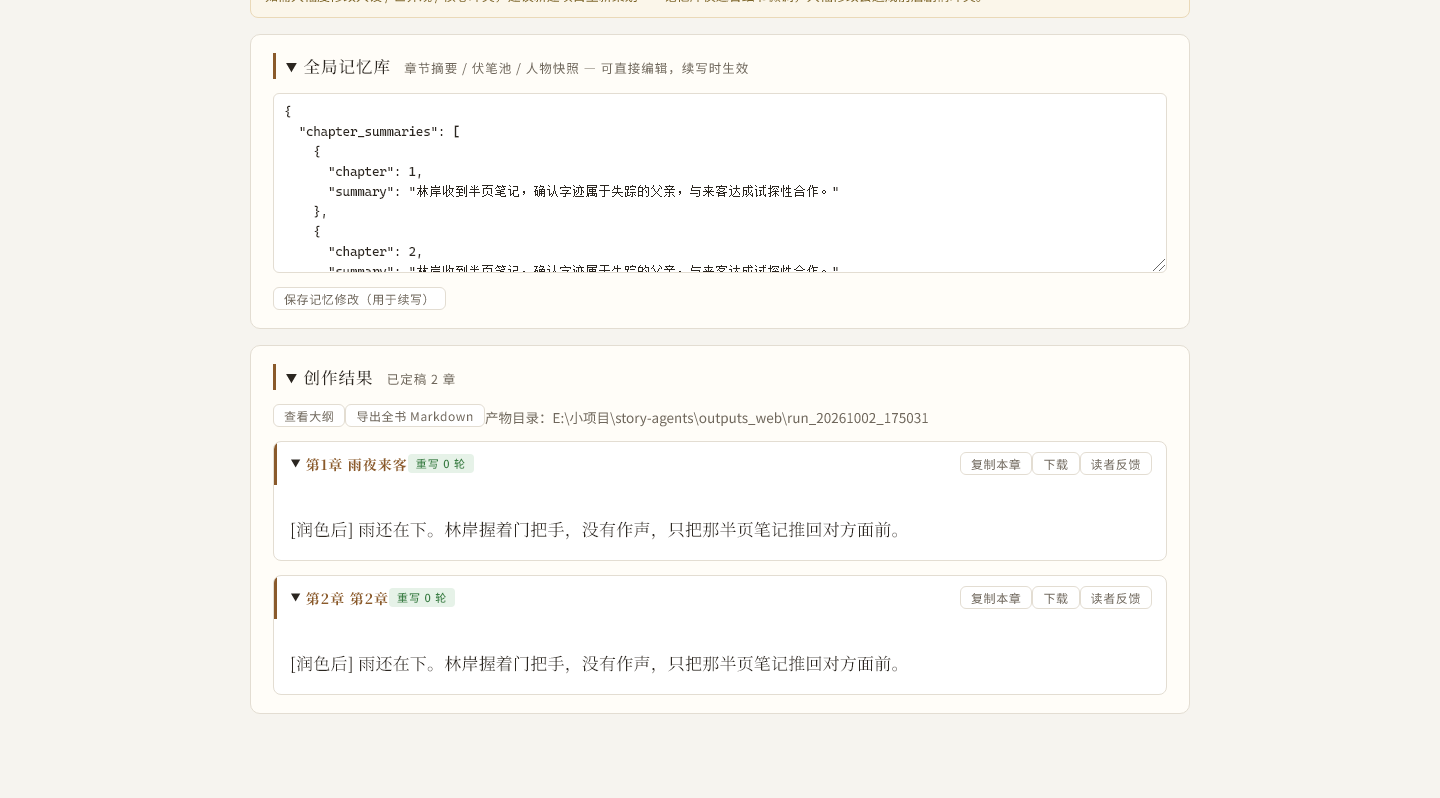
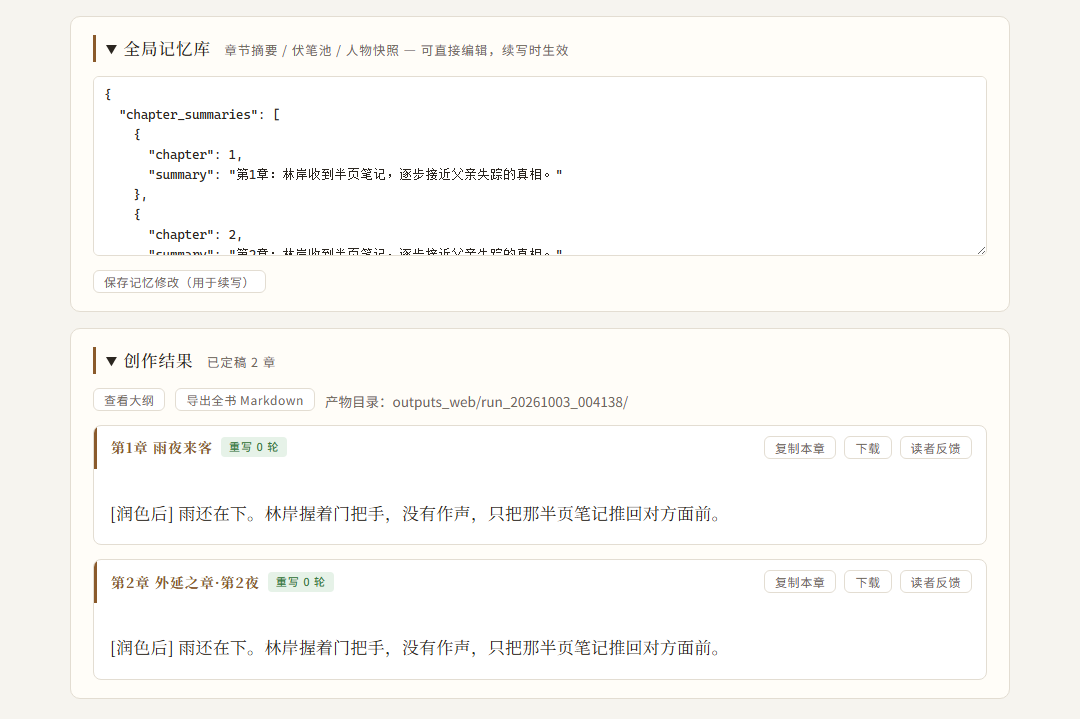
fix(web): 产物目录不再向下发绝对路径，并重拍三张界面截图
发布前审计发现 `docs/images/ui-result.png` 把界面上那行
「产物目录：E:/<作者目录>/outputs_web/run_...」原样拍了进去 —— 盘符与 Windows
用户名跟着一起公开了。文本搜索扫不出来（它是像素），是逐张看图才发现的。

- `web/server.py`：新增 `_display_dir()`，下发给前端的 `out_dir` 改为「相对项目根」
  的路径（磁盘上仍用绝对路径，日志与落盘不受影响）。不在项目内、或跨盘符时
  只回最后一级，避免外泄本机目录结构。
- `tests/test_display_dir.py`：6 项，含一个"总闸"用例——真实输入域下
  展示串不得含盘符与绝对前缀。
- `docs/images/`：三张截图用 CDP 重拍。面板默认折叠，`--screenshot` 点不了元素，
  只能走 DevTools 协议；顺带把整页长图从 416 KB 压到 178 KB。
- `README.md`：测试数同步、补测试表一行、补 `start.bat` 的解释器查找顺序说明
  （它优先找的是作者本机目录，外部用户走 PATH 兜底那条分支）。

236 项通过（原 230 + 新增 6）。

diff --git a/tests/test_display_dir.py b/tests/test_display_dir.py
@@ -1,0 +1,68 @@
+"""产物目录的展示路径：不许把盘符与 Windows 用户名下发到前端。
+
+回归背景：README 里的界面截图曾经直接拍到界面上那行
+「产物目录：E:\\<作者目录>\\outputs_web\\run_20261002_175031」——
+绝对路径含盘符与用户名，而这一行恰恰最容易出现在截图、issue 和文档里。
+现在服务端下发给前端的统一是「相对项目根」的路径，磁盘上仍用绝对路径。
+"""
+import os
+import sys
+
+import pytest
+
+sys.path.insert(0, os.path.dirname(os.path.dirname(os.path.abspath(__file__))))
+
+import web.server as server
+
+
+def test_none_and_empty_return_none():
+    assert server._display_dir(None) is None
+    assert server._display_dir("") is None
+
+
+def test_inside_project_becomes_relative_with_forward_slashes():
+    """项目内的产物目录 → 相对路径，且用正斜杠（跨平台、可读）。"""
+    abs_dir = os.path.join(server.PROJECT_ROOT, "outputs_web", "run_20261002_175031")
+    out = server._display_dir(abs_dir)
+    assert out == "outputs_web/run_20261002_175031/"
+    assert "\\" not in out
+
+
+def test_inside_project_is_relative_to_project_root_not_cwd():
+    """相对项目根，而不是相对当前工作目录——否则换个目录启动就显示成 ../../。"""
+    abs_dir = os.path.join(server.PROJECT_ROOT, "outputs_web", "run_x")
+    assert server._display_dir(abs_dir).startswith("outputs_web/")
+
+
+@pytest.mark.skipif(os.name != "nt", reason="跨盘符 relpath 抛错是 Windows 行为")
+def test_other_drive_falls_back_to_basename():
+    """跨盘符时 relpath 会抛 ValueError，必须兜住并只报最后一级。"""
+    assert server._display_dir("D:\\other\\run_x") == "run_x"
+
+
+def test_outside_project_falls_back_to_basename():
+    """项目外的路径不给完整路径，只报最后一级——同样是为了不外泄本机目录结构。"""
+    outside = os.path.join(os.path.dirname(server.PROJECT_ROOT), "somewhere", "run_x")
+    assert server._display_dir(outside) == "run_x"
+
+
+def test_display_path_never_contains_drive_letter_or_username():
+    """总闸：真实输入域（各种位置的 run 目录）下，展示串都不许带盘符或绝对前缀。
+
+    只取 `out_dir` 真实可能出现的形态：项目内的 run 目录、项目外同盘的 run 目录、
+    以及另一个盘上的 run 目录。不含 `~`、根目录这类合成输入——它们不会成为产物目录，
+    而"只留最后一级"的兜底正是靠最后一级恰好是 `run_xxx` 才安全。
+    """
+    cases = [
+        os.path.join(server.PROJECT_ROOT, "outputs_web", "run_a"),
+        os.path.join(os.path.dirname(server.PROJECT_ROOT), "outputs_web", "run_b"),
+    ]
+    if os.name == "nt":
+        cases.append("D:\\outputs_web\\run_c")
+
+    for raw in cases:
+        out = server._display_dir(raw)
+        assert out and out == out.strip(), out
+        assert ":" not in out, out
+        assert not out.startswith(("/", "\\")), out
+        assert "run_" in out, out

diff --git a/README.md b/README.md
@@ -45,11 +45,16 @@ python main.py --prompt "测试" --chapters 2 --mock
 > 环境变量优先级：**真实环境变量 > `.env` > `config.py` 默认值**。
 > 全部可用变量与取舍说明见 `.env.example`。
 > 注意：网页端下拉里选好平台与模型后，`DEEPSEEK_MODEL` 就不再生效。
+>
+> **Windows 双击启动**：仓库里带一个 `start.bat`，它会按「本机 WorkBuddy 内置 Python →
+> 其版本目录 → PATH 里的 `python`」的顺序找解释器，找不到会提示，然后自动补装依赖并起服务。
+> 它优先找的那几个目录属于作者本机环境，你没有 WorkBuddy 也没关系——
+> 只要 `python` 在 PATH 里就会走最后一条分支。**必须在项目根目录启动**。
 
 ## 开发与测试
 
 ```bash
-python -m pytest      # 230 项，全部离线，约 2.9 秒
+python -m pytest      # 236 项，全部离线，约 2.9 秒
 ```
 
 测试不联网、不烧 token：`MockLLM` 能跑通整条流水线，JSON 修复链与规则层检测都是纯字符串处理。
@@ -65,6 +70,7 @@ python -m pytest      # 230 项，全部离线，约 2.9 秒
 | `test_models.py` | Pydantic 归一：缺字段、类型强转、中文枚举收敛、物资与设定状态归一、角色名归一、告警去重 |
 | `test_memory_index.py` | 中文 bigram 分词、FTS5 检索命中、单字虚词过滤、无索引时降级 |
 | `test_style_check.py` | 套话/句长/比喻/收束句各自判据与样本量门槛 |
+| `test_display_dir.py` | 产物目录的展示路径：项目内转相对路径、跨盘/项目外只留最后一级，**保证界面不下发盘符与用户名** |
 
 降级路径均已单独构造用例：校对单路超时只跳过该路、三路都无 critical 转 pass、
 记忆结算失败不中断、检索不可用时退回「必带项 + 最近 k 章」。
@@ -219,7 +225,7 @@ story-agents/
 ├── web/
 │   ├── server.py      # FastAPI + SSE 进度推送 + 会话落盘/恢复
 │   └── static/index.html  # 表单页（人物卡动态增删、本机记忆）
-├── tests/             # pytest 测试集（离线，230 项，约 2.9 秒）
+├── tests/             # pytest 测试集（离线，236 项，约 2.9 秒）
 ├── docs/
 │   ├── 优化建议-对比同类项目.md   # 横向调研：能力矩阵 + P0–P3 清单
 │   └── images/        # README 截图
